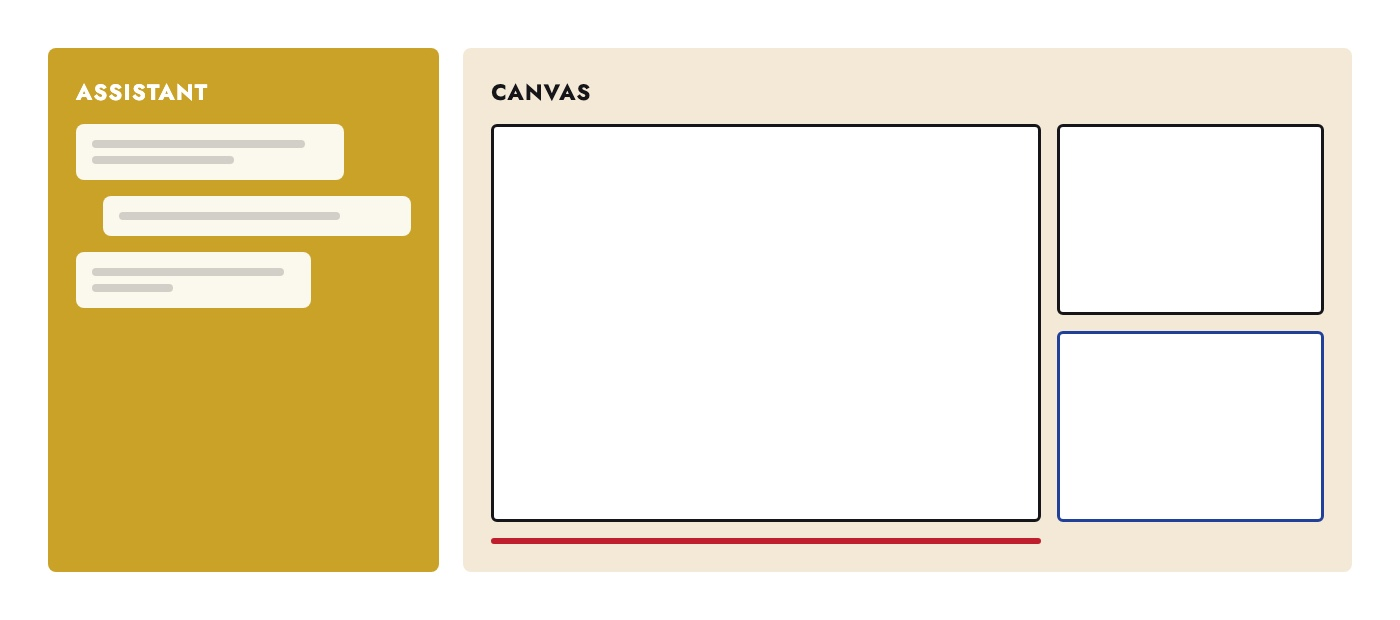
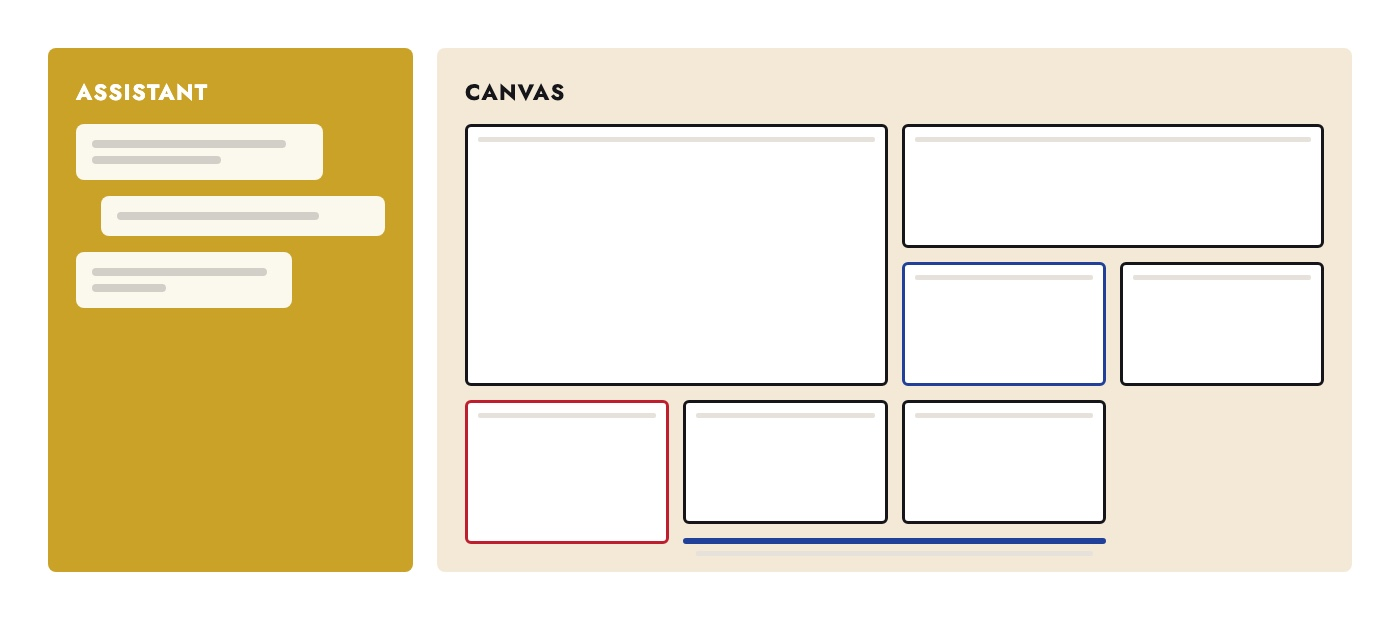
Fix hero-flex regression breaking .breakout on case-study pages; redraw Ericsson diagrams again (literal structure)
The homepage hero rework made .hero a flex container and gave .hero h1 a
poster-scale clamp, both unscoped -- this silently broke every case-study
page's full-bleed hero image (.breakout can't do its 100vw/negative-margin
trick as a flex item, so it collapsed to ~400px) and would have oversized
their h1s too. Scoped both to a new .hero-home class, added only to
index.html; case-study heroes are back to plain block layout. Also scopes
the custom-cursor JS to .hero-home for the same reason -- it was only ever
designed for the homepage.

Also redraws the five Ericsson diagrams a third time: the previous
Bauhaus-poster pass looked better but lost the information the shapes were
supposed to convey. This pass keeps the bold flat colour but makes each
composition literally depict its concept -- the before/after now shows
real overlapping screens buried under angled note blocks, and the card
comparison mirrors the user's own reference slide (a uniform grid vs an
irregular content-driven one) instead of decorative shapes.

diff --git a/work/ericsson.html b/work/ericsson.html
@@ -16,7 +16,7 @@
 <meta name="twitter:description" content="UX design on dense private-5G software at Ericsson: making Figma deliveries AI-readable, getting design and development to build together, and a generative UI proposal for data-dense dashboards.">
 <meta name="twitter:image" content="https://nikossaoulidis.xyz/images/ericsson/collage.jpg">
 <link rel="icon" href="/favicon.svg" type="image/svg+xml">
-<link rel="stylesheet" href="/css/styles.css?v=6">
+<link rel="stylesheet" href="/css/styles.css?v=7">
 </head>
 <body class="no-js" id="top">
 <!-- SHARED: header - keep identical across all pages, EXCEPT the one
@@ -96,7 +96,7 @@
       <figure class="mt-0">
         <picture>
           <source srcset="/images/ericsson/case1-before-after.webp" type="image/webp">
-          <img src="/images/ericsson/case1-before-after.jpg" width="1400" height="750" alt="Bold geometric before-and-after diagram. Left: a large red circle, blue square and gold triangle tangled together under crossing lines. Right: two calm section blocks and a column of three solid colour bars, red, blue and gold." loading="lazy">
+          <img src="/images/ericsson/case1-before-after.jpg" width="1400" height="750" alt="Diagram comparing a cluttered canvas of eight white screens buried under overlapping red, blue and gold note blocks at odd angles, to an organised canvas of clean screens grouped into two labelled sections, with a separate column of three solid colour bars." loading="lazy">
         </picture>
         <figcaption>Redrawn abstractly to stay NDA-safe: no real screens or product text.</figcaption>
       </figure>
@@ -217,7 +217,7 @@
       <figure class="mt-0">
         <picture>
           <source srcset="/images/ericsson/case3-card.webp" type="image/webp">
-          <img src="/images/ericsson/case3-card.jpg" width="1000" height="450" alt="Diagram comparing a single large red square with a crack through it, captioned 'breaks the moment content changes', to three solid blue bars of increasing height, captioned 'responds to whatever width it's given'." loading="lazy">
+          <img src="/images/ericsson/case3-card.jpg" width="1000" height="500" alt="Diagram comparing a uniform 3-by-3 grid of identically sized red cards, captioned 'fixed size, breaks in a dynamic layout', to an irregular grid of variously sized blue cards that follow their content, captioned 'width and height follow the content'." loading="lazy">
         </picture>
       </figure>
     </div>
@@ -243,7 +243,7 @@
       <figure class="mt-0">
         <picture>
           <source srcset="/images/ericsson/case3-assistant-canvas.webp" type="image/webp">
-          <img src="/images/ericsson/case3-assistant-canvas.jpg" width="1400" height="620" alt="Abstract diagram of a gold assistant panel with chat bubbles on the left, roughly 30% width, beside a larger canvas of content cards in a bento grid, some flagged with a blue or red top border, on the right." loading="lazy">
+          <img src="/images/ericsson/case3-assistant-canvas.jpg" width="1400" height="620" alt="Diagram of a gold assistant panel with chat bubbles on the left, roughly 30% width, beside a denser bento grid of eight content cards of varying sizes on the right, two flagged with a blue or red border." loading="lazy">
         </picture>
       </figure>
     </div>
@@ -288,7 +288,7 @@
     </nav>
   </div>
 </footer>
-<script src="/js/menu.js?v=6" defer></script>
+<script src="/js/menu.js?v=7" defer></script>
 <!-- /SHARED: footer -->
 
 </body>

diff --git a/css/styles.css b/css/styles.css
@@ -307,12 +307,21 @@ section, .section {
 
 /* ---------- Hero ---------- */
 .hero {
+  padding-block: var(--space-7) var(--space-6);
+}
+/* Homepage hero only -- poster-scale type, full-height flex centring, and
+   the shape/cursor layer below. Scoped separately from the shared .hero so
+   case-study pages (whose .breakout hero figures need .hero to stay a plain
+   block, not a flex container -- a flex item can't use the 100vw/negative-
+   margin breakout technique the same way) are unaffected. */
+.hero.hero-home {
   padding-block: clamp(var(--space-7), 14vh, 8rem) var(--space-6);
   min-height: 88vh;
   display: flex;
   align-items: center;
 }
-.hero .wrap { position: relative; width: 100%; }
+.hero .wrap { position: relative; }
+.hero.hero-home .wrap { width: 100%; }
 
 /* Custom cursor: a simple ring that tracks the pointer 1:1 while over the
    hero, filling solid red over a link. Desktop/hover/motion-enabled only --
@@ -372,6 +381,10 @@ section, .section {
 }
 
 .hero h1 {
+  font-size: var(--fs-hero);
+  max-width: 16ch;
+}
+.hero.hero-home h1 {
   font-size: clamp(3.552rem, 2.4rem + 5vw, 7.2rem);
   line-height: 1.02;
   max-width: 18ch;

diff --git a/index.html b/index.html
@@ -16,7 +16,7 @@
 <meta name="twitter:description" content="Product and UX designer working in the in-between of design, technology, and human connection. Enterprise software at Ericsson, a permanent museum installation, and a platform used by 2,700+ institutions.">
 <meta name="twitter:image" content="https://nikossaoulidis.xyz/images/ericsson/hero.jpg">
 <link rel="icon" href="/favicon.svg" type="image/svg+xml">
-<link rel="stylesheet" href="/css/styles.css?v=6">
+<link rel="stylesheet" href="/css/styles.css?v=7">
 </head>
 <body class="no-js" id="top">
 <!-- SHARED: header - keep identical across all pages, EXCEPT the one
@@ -43,7 +43,7 @@
 <!-- /SHARED: header -->
 
 <main id="main">
-<section class="hero">
+<section class="hero hero-home">
   <div class="wrap">
     <div class="hero-shapes" aria-hidden="true">
       <span class="shape-drift d1"><span class="shape s1" data-depth="16"></span></span>
@@ -186,7 +186,7 @@
     </nav>
   </div>
 </footer>
-<script src="/js/menu.js?v=6" defer></script>
+<script src="/js/menu.js?v=7" defer></script>
 <!-- /SHARED: footer -->
 
 </body>

diff --git a/work/dont-be-a-stranger.html b/work/dont-be-a-stranger.html
@@ -16,7 +16,7 @@
 <meta name="twitter:description" content="A permanent museum installation where two strangers pick up old rotary phones and talk to each other, live, across two museums in Gothenburg.">
 <meta name="twitter:image" content="https://nikossaoulidis.xyz/images/dbas/01-hero-installation-room.jpg">
 <link rel="icon" href="/favicon.svg" type="image/svg+xml">
-<link rel="stylesheet" href="/css/styles.css?v=6">
+<link rel="stylesheet" href="/css/styles.css?v=7">
 </head>
 <body class="no-js" id="top">
 <!-- SHARED: header - keep identical across all pages, EXCEPT the one
@@ -299,7 +299,7 @@
     </nav>
   </div>
 </footer>
-<script src="/js/menu.js?v=6" defer></script>
+<script src="/js/menu.js?v=7" defer></script>
 <!-- /SHARED: footer -->
 
 </body>

diff --git a/about.html b/about.html
@@ -16,7 +16,7 @@
 <meta name="twitter:description" content="Nikos Saoulidis is a designer and researcher who came into design sideways, from engineering. Education, work experience, talks and exhibitions.">
 <meta name="twitter:image" content="https://nikossaoulidis.xyz/images/ericsson/hero.jpg">
 <link rel="icon" href="/favicon.svg" type="image/svg+xml">
-<link rel="stylesheet" href="/css/styles.css?v=6">
+<link rel="stylesheet" href="/css/styles.css?v=7">
 </head>
 <body class="no-js" id="top">
 <!-- SHARED: header - keep identical across all pages, EXCEPT the one
@@ -166,7 +166,7 @@
     </nav>
   </div>
 </footer>
-<script src="/js/menu.js?v=6" defer></script>
+<script src="/js/menu.js?v=7" defer></script>
 <!-- /SHARED: footer -->
 
 </body>

diff --git a/work/interactive-table.html b/work/interactive-table.html
@@ -16,7 +16,7 @@
 <meta name="twitter:description" content="A playful, ambiguous table that turns bare-skin touch into sound and light between strangers. Exhibited at ACM DIS 2024, Copenhagen.">
 <meta name="twitter:image" content="https://nikossaoulidis.xyz/images/table/diagram.jpg">
 <link rel="icon" href="/favicon.svg" type="image/svg+xml">
-<link rel="stylesheet" href="/css/styles.css?v=6">
+<link rel="stylesheet" href="/css/styles.css?v=7">
 </head>
 <body class="no-js" id="top">
 <!-- SHARED: header - keep identical across all pages, EXCEPT the one
@@ -123,7 +123,7 @@
     </nav>
   </div>
 </footer>
-<script src="/js/menu.js?v=6" defer></script>
+<script src="/js/menu.js?v=7" defer></script>
 <!-- /SHARED: footer -->
 
 </body>

diff --git a/work/lighthouse.html b/work/lighthouse.html
@@ -16,7 +16,7 @@
 <meta name="twitter:description" content="A stage-lighting app that makes a powerful, complex tool approachable, with a 3D stage preview and a visual identity of its own.">
 <meta name="twitter:image" content="https://nikossaoulidis.xyz/images/lighthouse/hero.jpg">
 <link rel="icon" href="/favicon.svg" type="image/svg+xml">
-<link rel="stylesheet" href="/css/styles.css?v=6">
+<link rel="stylesheet" href="/css/styles.css?v=7">
 </head>
 <body class="no-js" id="top">
 <!-- SHARED: header - keep identical across all pages, EXCEPT the one
@@ -104,7 +104,7 @@
     </nav>
   </div>
 </footer>
-<script src="/js/menu.js?v=6" defer></script>
+<script src="/js/menu.js?v=7" defer></script>
 <!-- /SHARED: footer -->
 
 </body>

diff --git a/work/ewp-dashboard.html b/work/ewp-dashboard.html
@@ -16,7 +16,7 @@
 <meta name="twitter:description" content="Redesigning the tool European universities use to manage Erasmus+ mobility, now the gold standard across 2,700+ institutions.">
 <meta name="twitter:image" content="https://nikossaoulidis.xyz/images/ewp/hero.jpg">
 <link rel="icon" href="/favicon.svg" type="image/svg+xml">
-<link rel="stylesheet" href="/css/styles.css?v=6">
+<link rel="stylesheet" href="/css/styles.css?v=7">
 </head>
 <body class="no-js" id="top">
 <!-- SHARED: header - keep identical across all pages, EXCEPT the one
@@ -154,7 +154,7 @@
     </nav>
   </div>
 </footer>
-<script src="/js/menu.js?v=6" defer></script>
+<script src="/js/menu.js?v=7" defer></script>
 <!-- /SHARED: footer -->
 
 </body>

diff --git a/work/synodia.html b/work/synodia.html
@@ -16,7 +16,7 @@
 <meta name="twitter:description" content="A slow, collective, touch-first music player, a quiet argument against passive, algorithm-driven streaming.">
 <meta name="twitter:image" content="https://nikossaoulidis.xyz/images/synodia/device.jpg">
 <link rel="icon" href="/favicon.svg" type="image/svg+xml">
-<link rel="stylesheet" href="/css/styles.css?v=6">
+<link rel="stylesheet" href="/css/styles.css?v=7">
 </head>
 <body class="no-js" id="top">
 <!-- SHARED: header - keep identical across all pages, EXCEPT the one
@@ -118,7 +118,7 @@
     </nav>
   </div>
 </footer>
-<script src="/js/menu.js?v=6" defer></script>
+<script src="/js/menu.js?v=7" defer></script>
 <!-- /SHARED: footer -->
 
 </body>

diff --git a/contact.html b/contact.html
@@ -16,7 +16,7 @@
 <meta name="twitter:description" content="Get in touch with Nikos Saoulidis by email or LinkedIn.">
 <meta name="twitter:image" content="https://nikossaoulidis.xyz/images/ericsson/hero.jpg">
 <link rel="icon" href="/favicon.svg" type="image/svg+xml">
-<link rel="stylesheet" href="/css/styles.css?v=6">
+<link rel="stylesheet" href="/css/styles.css?v=7">
 </head>
 <body class="no-js" id="top">
 <!-- SHARED: header - keep identical across all pages, EXCEPT the one
@@ -94,7 +94,7 @@
     </nav>
   </div>
 </footer>
-<script src="/js/menu.js?v=6" defer></script>
+<script src="/js/menu.js?v=7" defer></script>
 <!-- /SHARED: footer -->
 
 </body>

diff --git a/js/menu.js b/js/menu.js
@@ -33,7 +33,7 @@ document.body.classList.remove('no-js');
   // hover-capable pointer, motion allowed) since neither means anything on
   // touch and reduced-motion users get the plain static hero either way.
   var heroShapes = document.querySelector('.hero-shapes');
-  var hero = document.querySelector('.hero');
+  var hero = document.querySelector('.hero.hero-home');
   if (hero && !reduceMotion && window.matchMedia('(hover: hover)').matches) {
     if (heroShapes) {
       var shapes = Array.prototype.slice.call(heroShapes.querySelectorAll('.shape'));
